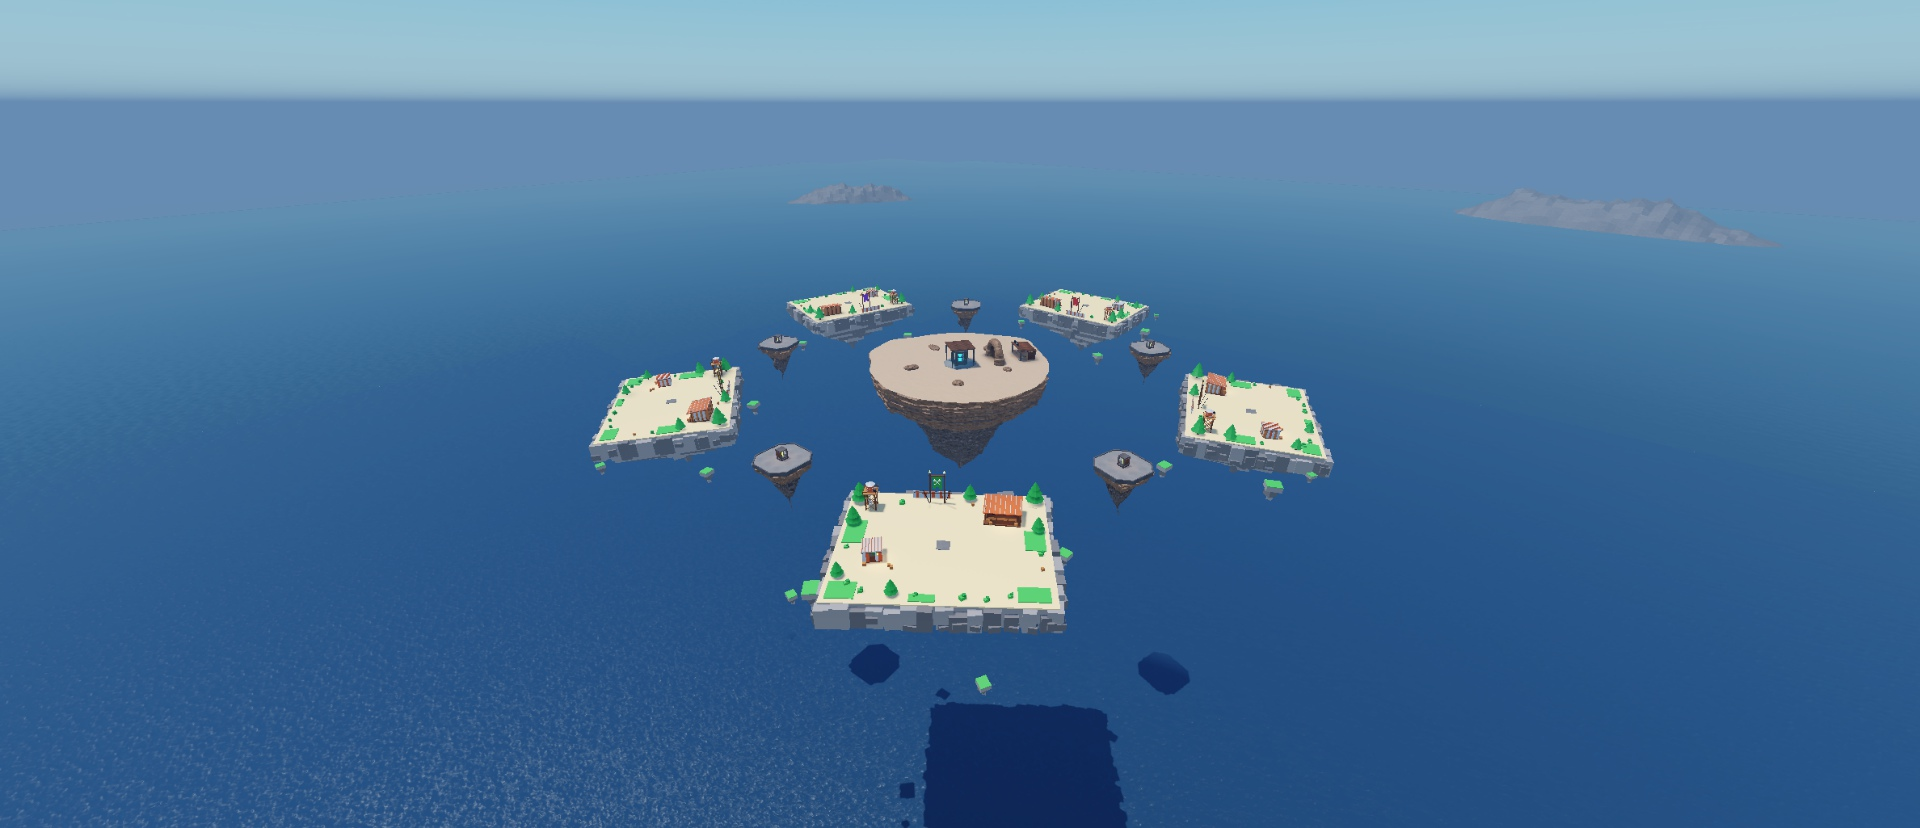
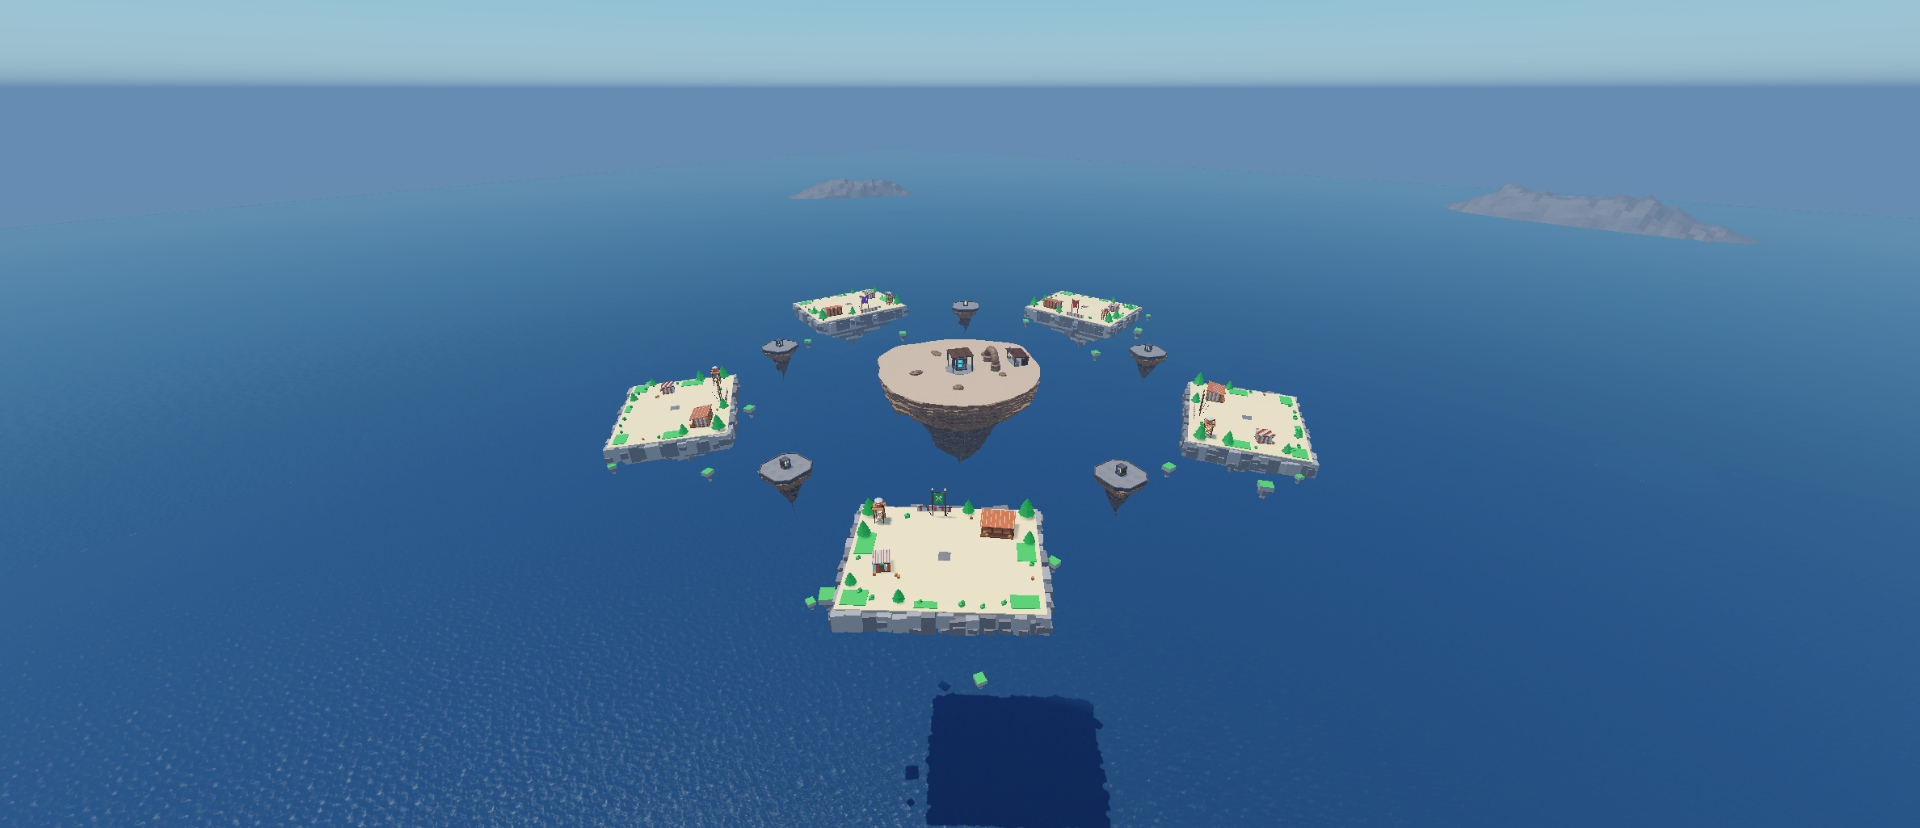
Space the map out: team ring radius 260 -> 285
Claude-Session: https://claude.ai/code/session_01E3oYzGdUmqFAvGQxQ2ptcc

diff --git a/FPS Bedwars Decisions.md b/FPS Bedwars Decisions.md
@@ -24,3 +24,4 @@ Dated log of design and technical decisions and the reasons for them. Back to [[
 - **2026-10-25 (build): The shop pivot is behind the counter (shopkeeper space).** Customers stand on the open front side.
 - **2026-10-27: Team islands replaced with Sterling's GLB island** (`imports/team-island-blocky.glb`). The GLB's own buildings, trees and floating rocks are kept. Our bed goes in the GLB hut and the hut door is removed. Scale ×1.75, flat GLB colours, ramp removed. Rotated 180° so the banner and fence face the centre and the hut sits at the back. See [[Phase 1b - GLB Team Islands]].
 - **2026-10-27: `MapBuilder.TEAM_STYLE` switches team islands between "GLB" and "Rust".** Both template sets stay in `ServerStorage.MapAssets`, so the old look can come back with one line.
+- **2026-10-27: Map spaced out — team ring radius 260 → 285** (Sterling: "space the map out a bit more"). Platforms follow automatically (radius ≈ 231). Edge-to-edge gaps measured by raycast: base → centre 136, base → platform 63, platform → centre 105.

diff --git a/Phases/Phase 1b - GLB Team Islands.md b/Phases/Phase 1b - GLB Team Islands.md
@@ -47,7 +47,7 @@ My choice: the island is **rotated 180°** so the banner and fence face the cent
 
 ## Notes
 - The hut is about 13.5 × 15.8 studs, smaller than the original 24 × 24 (2 × 2 grid) spec. This was accepted with the ×1.75 scale. The bed fits with about 3 studs between its foot and the doorway.
-- The islands are smaller than the old ones, so gaps grew a little: base → centre about 112, base → platform about 70. Ring radius is still 260.
+- **Spacing (updated 2026-10-27):** ring radius raised from 260 to 285. Measured gaps edge to edge: base → centre 136, base → platform 63, platform → centre 105.
 - Rojo wasn't running this session, so the Studio modules were patched in place with `multi_edit` and checked byte for byte against `scripts/`.
 
 ![[studio_glb_hut.jpg]]
